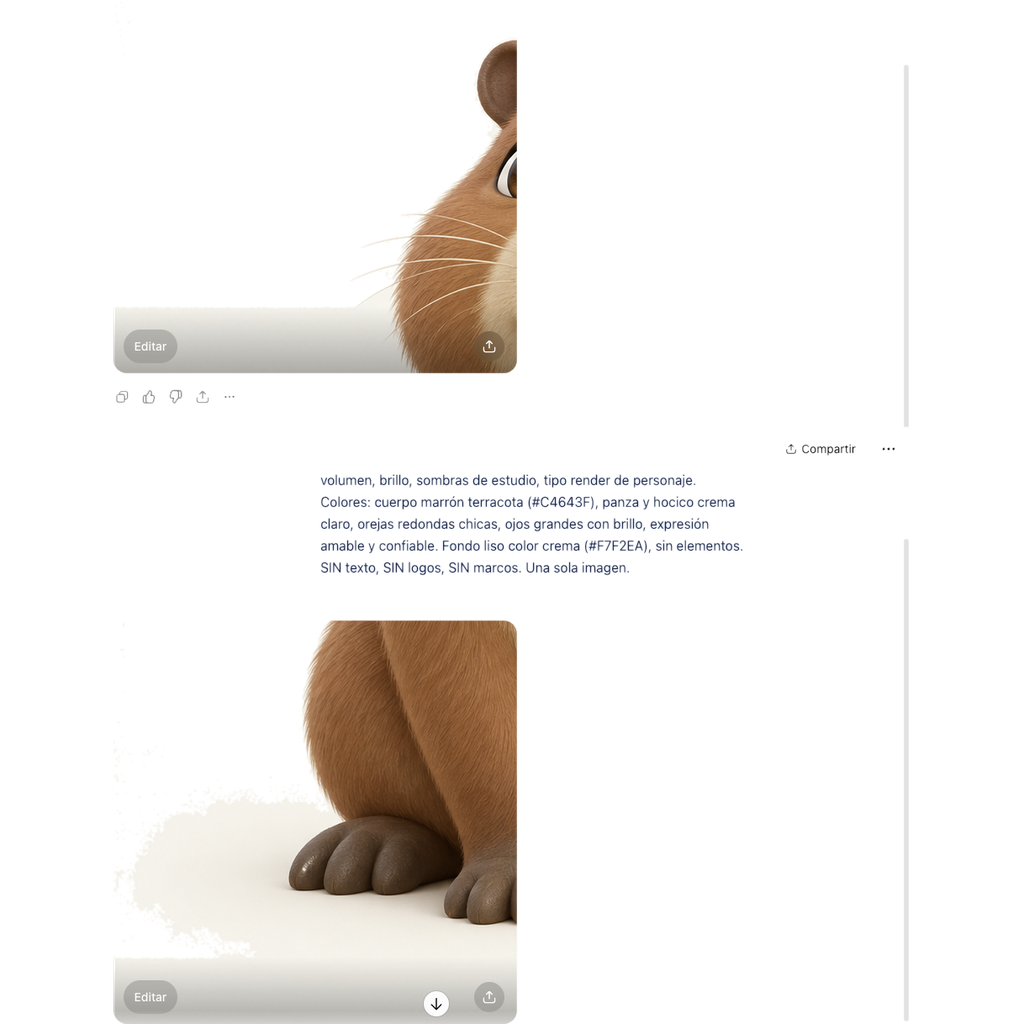
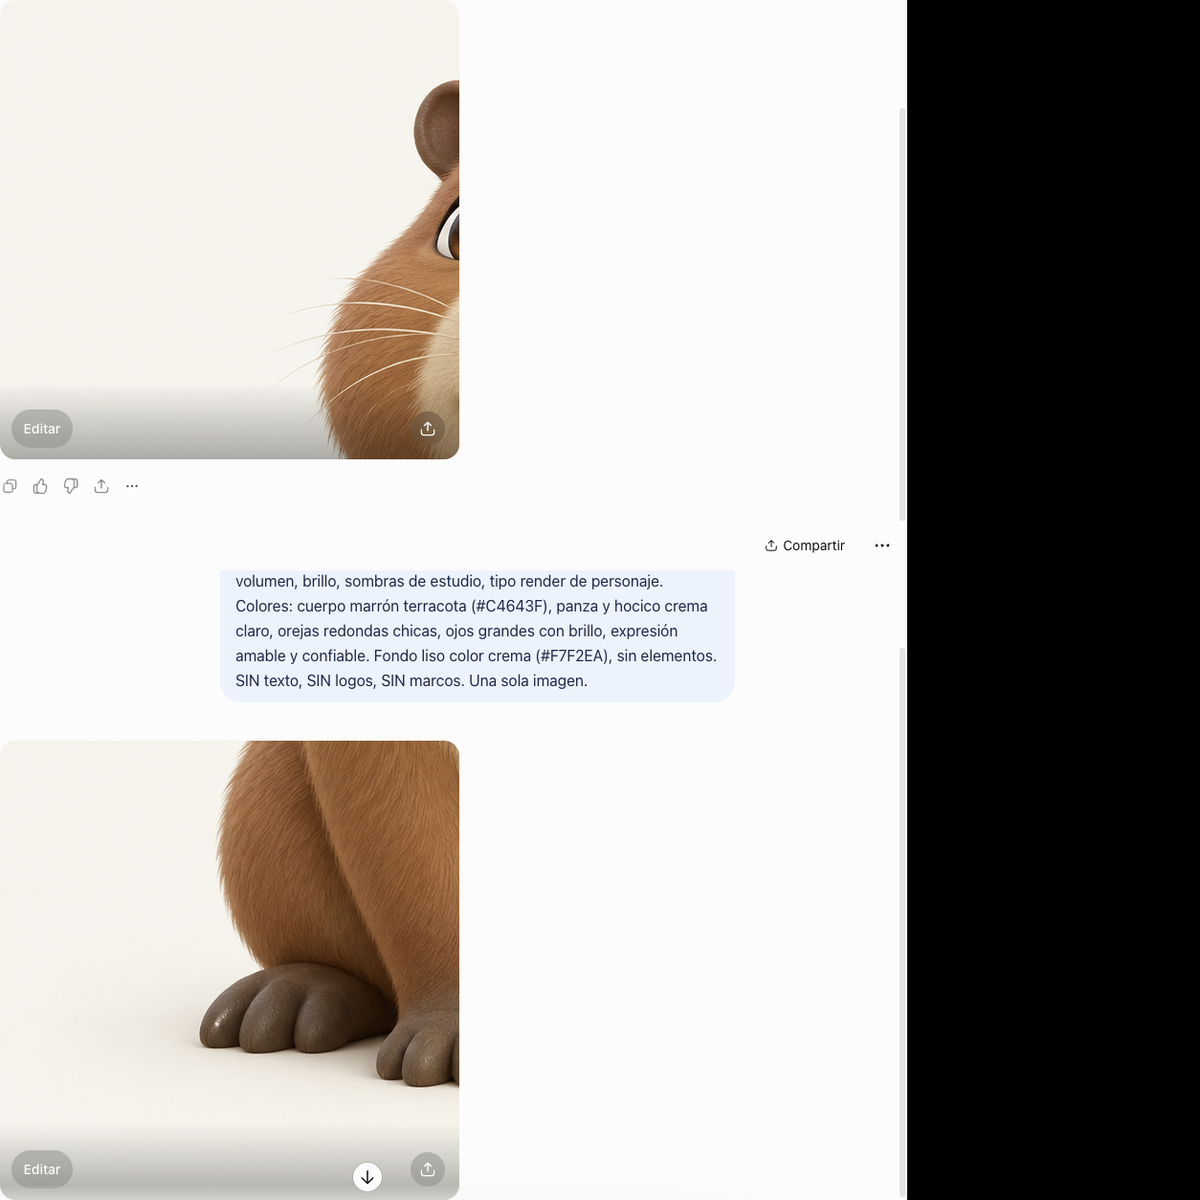
Mascota: revierte el recorte de fondo (comia la imagen) y usa el original en alta 1200 sobre fondo plano

diff --git a/mascota/index.html b/mascota/index.html
@@ -5,41 +5,34 @@
 <meta name="viewport" content="width=device-width,initial-scale=1,viewport-fit=cover"/>
 <title>El carpincho que te atiende 24/7 - Derito Digital</title>
 <style>
-  :root{--terracota:#C4643F;--tinta:#3A2A22;}
+  :root{--crema:#F5F3ED;--terracota:#C4643F;--tinta:#3A2A22;}
   *{box-sizing:border-box}
-  html,body{margin:0;height:100%;overflow:hidden;color:var(--tinta);
-    font-family:-apple-system,BlinkMacSystemFont,"Segoe UI",Roboto,Helvetica,Arial,sans-serif;
-    background:#F6F4EE;
-    background-image:radial-gradient(circle at 50% 38%, #FFFDF9 0%, #F8F5EF 46%, #EDE7DB 100%)}
+  html,body{margin:0;height:100%;overflow:hidden;color:var(--tinta);background:var(--crema);
+    font-family:-apple-system,BlinkMacSystemFont,"Segoe UI",Roboto,Helvetica,Arial,sans-serif}
   .marca{position:fixed;top:0;left:0;right:0;z-index:6;padding:16px 20px;display:flex;align-items:center;gap:9px;
-    font-weight:800;letter-spacing:1.6px;font-size:12px;opacity:.6}
+    font-weight:800;letter-spacing:1.6px;font-size:12px;opacity:.55}
   .punto{width:9px;height:9px;border-radius:50%;background:var(--terracota);box-shadow:0 0 0 4px rgba(196,100,63,.15)}
-  .escena{position:fixed;inset:0;display:grid;place-items:center;perspective:1200px;z-index:2;padding:76px 0 78px}
+  .escena{position:fixed;inset:0;display:grid;place-items:center;perspective:1200px;z-index:2;padding:78px 0 80px}
   .cuerpo{position:relative;transform-style:preserve-3d;transition:transform .15s ease-out;
     animation:flotar 4.8s ease-in-out infinite;will-change:transform}
   @keyframes flotar{0%,100%{translate:0 0}50%{translate:0 -16px}}
-  img.mascota{display:block;width:min(80vw,430px);height:auto;user-select:none;-webkit-user-drag:none;pointer-events:none;
-    filter:drop-shadow(0 24px 30px rgba(120,70,50,.20))}
-  .aura{position:absolute;left:50%;top:50%;width:132%;height:132%;transform:translate(-50%,-50%);border-radius:50%;
-    background:radial-gradient(circle,rgba(255,209,168,.50) 0%,rgba(255,209,168,0) 62%);z-index:-1;
-    animation:aura 4.8s ease-in-out infinite}
-  @keyframes aura{0%,100%{opacity:.45;scale:1}50%{opacity:.8;scale:1.05}}
+  img.mascota{display:block;width:min(78vw,405px);height:auto;user-select:none;-webkit-user-drag:none;pointer-events:none}
   .respira{animation:respira 5.4s ease-in-out infinite}
   @keyframes respira{0%,100%{scale:1}50%{scale:1.012}}
   .boing{animation:boing .54s cubic-bezier(.24,1.5,.42,1)}
   @keyframes boing{0%{scale:1 1}28%{scale:1.08 .92}58%{scale:.96 1.05}100%{scale:1 1}}
   .mira{animation:mira 1.6s ease-in-out}
   @keyframes mira{0%,100%{rotate:0deg}30%{rotate:-3deg}70%{rotate:3deg}}
-  .sombra{position:fixed;left:50%;bottom:13%;width:min(60vw,300px);height:30px;margin-left:calc(min(60vw,300px)/-2);
-    border-radius:50%;z-index:1;background:radial-gradient(ellipse at center,rgba(120,80,60,.28),rgba(120,80,60,0) 70%);
+  .sombra{position:fixed;left:50%;bottom:12%;width:min(56vw,280px);height:26px;margin-left:calc(min(56vw,280px)/-2);
+    border-radius:50%;z-index:1;background:radial-gradient(ellipse at center,rgba(120,80,60,.30),rgba(120,80,60,0) 70%);
     filter:blur(4px);animation:sombraViva 4.8s ease-in-out infinite}
-  @keyframes sombraViva{0%,100%{scale:1;opacity:.9}50%{scale:.86;opacity:.62}}
+  @keyframes sombraViva{0%,100%{scale:1;opacity:.9}50%{scale:.86;opacity:.6}}
   .globo{position:fixed;z-index:6;left:50%;top:7%;transform:translateX(-50%);max-width:min(90vw,440px);
     background:#fff;border-radius:18px;padding:13px 17px;font-size:14.5px;line-height:1.35;text-align:center;
     box-shadow:0 10px 30px rgba(58,42,34,.13);transition:opacity .3s}
   .globo:after{content:"";position:absolute;left:50%;bottom:-8px;margin-left:-8px;width:17px;height:17px;background:#fff;transform:rotate(45deg);border-radius:3px}
   .globo.oculto{opacity:0;pointer-events:none}
-  .pie{position:fixed;z-index:6;left:0;right:0;bottom:12px;text-align:center;font-size:12.5px;opacity:.58}
+  .pie{position:fixed;z-index:6;left:0;right:0;bottom:12px;text-align:center;font-size:12.5px;opacity:.55}
   .panel{position:fixed;z-index:9;left:50%;bottom:0;transform:translateX(-50%);width:min(94vw,470px);background:#fff;
     border-radius:20px 20px 0 0;box-shadow:0 -14px 40px rgba(58,42,34,.2);display:flex;flex-direction:column;max-height:62vh;transition:transform .35s ease}
   .panel.oculto{transform:translateX(-50%) translateY(112%)}
@@ -62,8 +55,7 @@
 <div class="sombra"></div>
 <div class="escena">
   <div id="cuerpo" class="cuerpo respira">
-    <span class="aura"></span>
-    <img class="mascota" src="capi.png?v=2" alt="Carpincho agente de Derito Digital" draggable="false"/>
+    <img class="mascota" src="capi.png?v=3" alt="Carpincho agente de Derito Digital" draggable="false"/>
   </div>
 </div>
 <div class="pie">El carpincho ES el agente - tocalo para hablarle</div>
@@ -86,7 +78,7 @@ function mover(e){
   if (!p) return;
   var nx = (p.clientX / window.innerWidth) * 2 - 1;
   var ny = (p.clientY / window.innerHeight) * 2 - 1;
-  cuerpo.style.transform = 'rotateX(' + (-ny * 10).toFixed(1) + 'deg) rotateY(' + (nx * 16).toFixed(1) + 'deg) translateX(' + (nx * 13).toFixed(1) + 'px) translateY(' + (ny * 6).toFixed(1) + 'px)';
+  cuerpo.style.transform = 'rotateX(' + (-ny * 10).toFixed(1) + 'deg) rotateY(' + (nx * 15).toFixed(1) + 'deg) translateX(' + (nx * 12).toFixed(1) + 'px) translateY(' + (ny * 6).toFixed(1) + 'px)';
 }
 document.addEventListener('pointermove', mover);
 document.addEventListener('touchmove', mover, { passive: true });
